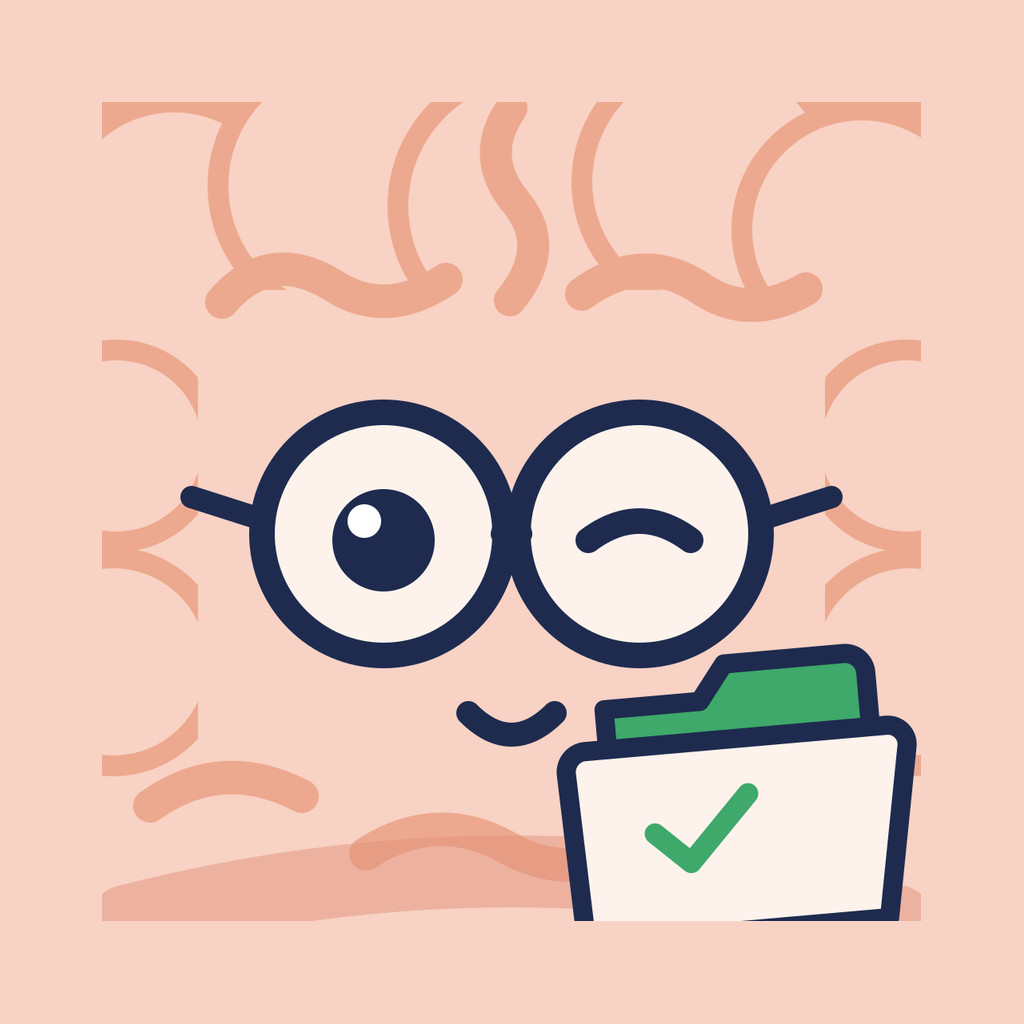
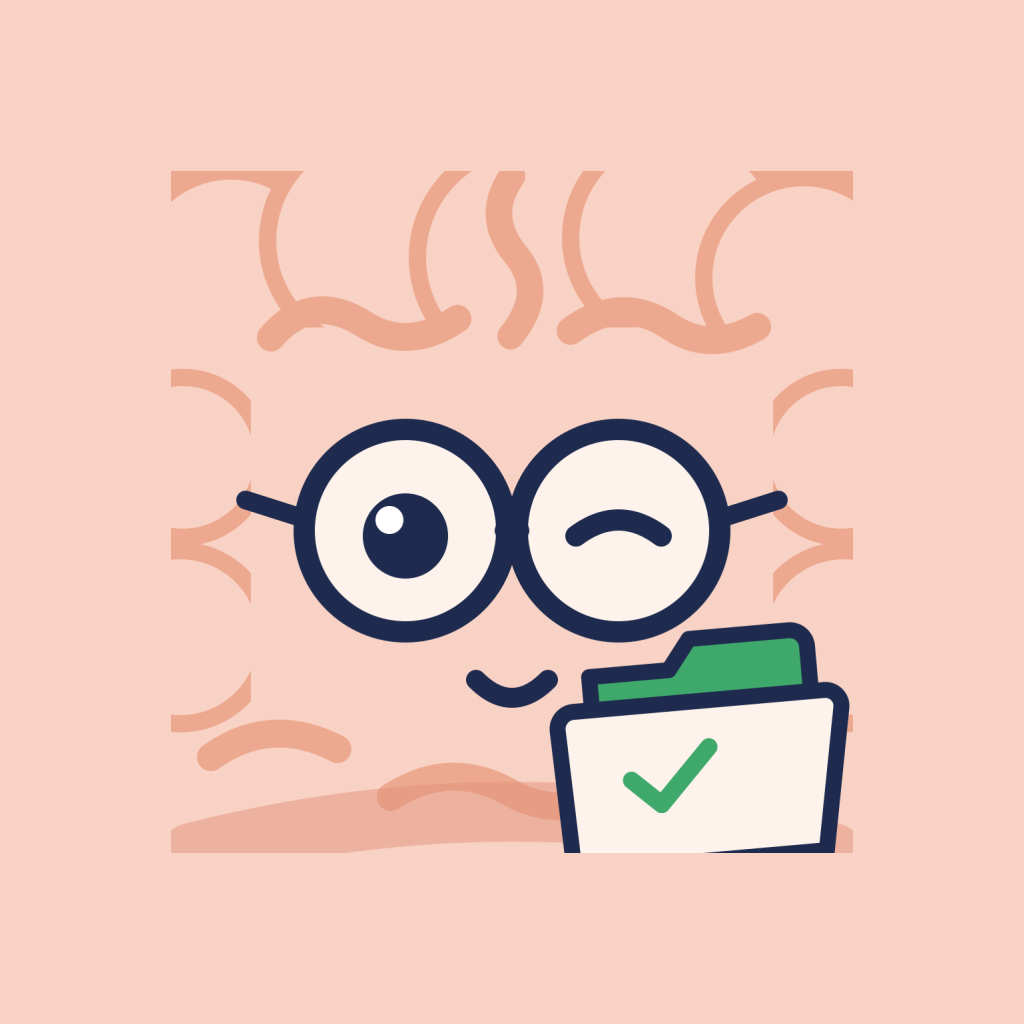
fix(assets): il foreground adattivo Android sta nella zona sicura
Il launcher mostra solo i 72dp centrali dei 108dp del foreground (il 66,7%,
su 1024 px = 171..853) e dentro quel quadrato applica la sua maschera:
cerchio sui Pixel, squircle altrove. Il file committato insettava l'arte
all'80% — contenuto misurato da 102 a 920 — quindi il 10,4% del contorno
navy usciva dal quadrato ed era tagliato su OGNI launcher, e il 48,4% del
verde della cartella cadeva fuori dalla maschera circolare: la cartella,
seconda meta' dell'idea "cervello + cartella", veniva amputata sul bordo.
docs/DEPLOY.md registrava l'asset come "full-bleed pink brain" voluto,
quindi nessuno l'avrebbe ricontrollato.

Rigenerato dalla stessa arte (assets/icon.png) scalata a 682 px con offset
171: 0 pixel fuori dalla zona sicura, 0% del verde fuori dalla maschera
circolare, navy fuori dal cerchio dal 13,5% al 7,2% (l'angolo esterno della
cartella, che li' legge come cartella che sbuca). Nessuna cucitura visibile:
il campo e' #F8D2C4, cioe' la base del cervello. L'icona iOS non e' toccata
— li' non c'e' maschera e il tutto campo e' giusto.

Lo script che lo fa vive nel repo (adaptive-inset.source.cjs, nessuna
dipendenza) e due asserzioni nuove in lib/native-config.test.ts tengono
l'invariante da entrambi i lati: niente arte fuori dal quadrato sicuro per
l'Android, arte a tutto campo per l'iOS.

Va fatto PRIMA della build: adaptive-icon.png e' input del fingerprint.

Claude-Session: https://claude.ai/code/session_01QZg6B2fg1WjCP5vyBUy89B

diff --git a/lib/native-config.test.ts b/lib/native-config.test.ts
@@ -45,7 +45,7 @@ function paeth(left: number, up: number, upLeft: number): number {
  * che sia USATO: un 96×96 bianco tutto opaco passerebbe il controllo sull'IHDR
  * ed è esattamente il quadrato pieno che Android disegnerebbe nella status bar.
  */
-function alphaStats(relative: string): { fullyTransparent: number; opaqueNonWhite: number } {
+function decodeRgba(relative: string): { width: number; height: number; px: Buffer } {
   const b = readPng(relative);
   const width = b.readUInt32BE(16);
   const height = b.readUInt32BE(20);
@@ -97,9 +97,15 @@ function alphaStats(relative: string): { fullyTransparent: number; opaqueNonWhit
     }
   }
 
+  return { width, height, px };
+}
+
+/** Pixel completamente trasparenti e pixel opachi che NON sono bianco puro. */
+function alphaStats(relative: string): { fullyTransparent: number; opaqueNonWhite: number } {
+  const { px } = decodeRgba(relative);
   let fullyTransparent = 0;
   let opaqueNonWhite = 0;
-  for (let i = 0; i < px.length; i += bpp) {
+  for (let i = 0; i < px.length; i += 4) {
     const alpha = px[i + 3];
     if (alpha === 0) {
       fullyTransparent += 1;
@@ -108,6 +114,39 @@ function alphaStats(relative: string): { fullyTransparent: number; opaqueNonWhit
     }
   }
   return { fullyTransparent, opaqueNonWhite };
+}
+
+/**
+ * Il rettangolo che racchiude tutti i pixel diversi dallo sfondo dato
+ * (`#RRGGBB` opaco, oppure alpha 0). Serve a misurare quanta arte esce dalla
+ * zona sicura dell'adaptive icon Android.
+ */
+function contentBounds(
+  relative: string,
+  background: [number, number, number],
+): { minX: number; minY: number; maxX: number; maxY: number } {
+  const { width, height, px } = decodeRgba(relative);
+  let minX = width;
+  let minY = height;
+  let maxX = -1;
+  let maxY = -1;
+  for (let y = 0; y < height; y += 1) {
+    for (let x = 0; x < width; x += 1) {
+      const i = (y * width + x) * 4;
+      const isBackground =
+        px[i + 3] === 0 ||
+        (px[i + 3] === 255 &&
+          px[i] === background[0] &&
+          px[i + 1] === background[1] &&
+          px[i + 2] === background[2]);
+      if (isBackground) continue;
+      if (x < minX) minX = x;
+      if (x > maxX) maxX = x;
+      if (y < minY) minY = y;
+      if (y > maxY) maxY = y;
+    }
+  }
+  return { minX, minY, maxX, maxY };
 }
 
 describe("icona di notifica Android", () => {
@@ -222,6 +261,46 @@ describe("app.json — build 3", () => {
     expect(sameBytes("assets/adaptive-icon.png", "assets/brand/icon-v2/adaptive-icon.png")).toBe(true);
     expect(appJson.expo.android.adaptiveIcon.backgroundColor).toBe("#F8D2C4");
     expect(pngHeader("assets/icon.png")).toEqual({ width: 1024, height: 1024, colorType: 6 });
+  });
+
+  it("il foreground adattivo sta tutto nella zona sicura: il launcher non taglia il disegno", () => {
+    // Adaptive icon: il foreground e' 108dp ma il sistema ne mostra solo i 72dp
+    // centrali (66,7%), e dentro quel quadrato ogni OEM applica la sua maschera
+    // — cerchio su Pixel, squircle altrove. Tutto cio' che esce da 171..853 su
+    // 1024 e' tagliato SEMPRE, su ogni launcher.
+    //
+    // Il file precedente insettava l'arte all'80% (bbox 102..920): il 10,4% del
+    // contorno navy usciva dal quadrato e il 48% del verde della cartella
+    // finiva fuori dalla maschera circolare, cioe' la cartella — la seconda
+    // meta' dell'idea "cervello + cartella" — veniva amputata sul bordo.
+    //
+    // Lo sfondo e' lo stesso colore della base del cervello, quindi rimpicciolire
+    // l'arte non lascia nessuna cucitura visibile. E' un input del fingerprint:
+    // sbagliarlo dopo vc13 costa la build 4.
+    const { width, height, colorType } = pngHeader("assets/adaptive-icon.png");
+    expect({ width, height, colorType }).toEqual({ width: 1024, height: 1024, colorType: 6 });
+    const safeLow = Math.round((width * (1 - 2 / 3)) / 2); // 171
+    const safeHigh = width - safeLow; // 853
+    const bounds = contentBounds("assets/adaptive-icon.png", [0xf8, 0xd2, 0xc4]);
+    expect(bounds.minX).toBeGreaterThanOrEqual(safeLow);
+    expect(bounds.minY).toBeGreaterThanOrEqual(safeLow);
+    expect(bounds.maxX).toBeLessThanOrEqual(safeHigh);
+    expect(bounds.maxY).toBeLessThanOrEqual(safeHigh);
+    // E il disegno deve comunque RIEMPIRE la zona sicura: un'arte
+    // rimpicciolita per sbaglio passerebbe il controllo di sopra.
+    expect(bounds.maxX - bounds.minX).toBeGreaterThan((safeHigh - safeLow) * 0.9);
+    expect(bounds.maxY - bounds.minY).toBeGreaterThan((safeHigh - safeLow) * 0.9);
+  });
+
+  it("l'icona iOS resta a tutto campo: li' non c'e' nessuna maschera", () => {
+    // Stessa arte, due inquadrature. Se un domani qualcuno ricopiasse
+    // icon.png su adaptive-icon.png (o viceversa) uno dei due sarebbe sbagliato.
+    const bounds = contentBounds("assets/icon.png", [0xf8, 0xd2, 0xc4]);
+    expect(bounds.minX).toBe(0);
+    expect(bounds.minY).toBe(0);
+    expect(bounds.maxX).toBe(1023);
+    expect(bounds.maxY).toBe(1023);
+    expect(sameBytes("assets/icon.png", "assets/adaptive-icon.png")).toBe(false);
   });
 
   it("gli asset per gli store sono la v2, e quello Apple è senza alpha", () => {

diff --git a/docs/DEPLOY.md b/docs/DEPLOY.md
@@ -353,14 +353,18 @@ only ship the `abort-controller` polyfill, which lacks it.
 ## Brand assets (icon, adaptive icon, splash, store icons)
 
 Launcher icons are the approved v2 (`assets/brand/icon-v2/`, vector source
-`brain-icon.source.mjs`, sharp — never in `package.json`). The splash still
+`brain-icon.source.mjs`, sharp — never in `package.json`). iOS gets the art
+full-bleed (`assets/icon.png`, no mask); **Android does not** — the launcher
+masks the foreground, so `assets/adaptive-icon.png` carries the same art inset
+into the safe zone. Same drawing, two framings: do not re-copy `icon.png` over
+`adaptive-icon.png`. The splash still
 derives from the v1 navy tile in `assets/brand/icon.png`; the icon-v2 README
 does not cover it and no spec asks for it.
 
 | File | Size / mode | Used by |
 | --- | --- | --- |
 | `assets/icon.png` | 1024×1024 RGBA (alpha all 255) = `assets/brand/icon-v2/icon.png`, byte for byte | `expo.icon`. Prebuild flattens it to RGB on white (`withIosIcons` → `removeTransparency`), so an opaque RGBA source is fine for Apple |
-| `assets/adaptive-icon.png` | 1024×1024 RGBA opaque, full-bleed pink brain = `assets/brand/icon-v2/adaptive-icon.png` | `expo.android.adaptiveIcon.foregroundImage` on `#F8D2C4` (v1 was navy on `#142450`) |
+| `assets/adaptive-icon.png` | 1024×1024 RGBA opaque = `assets/brand/icon-v2/adaptive-icon.png`. **Not** full-bleed: the art sits in the adaptive-icon safe zone (the central 66.7 % = px 171…853) on a flat `#F8D2C4` field, which is also the brain's own base colour, so there is no visible seam. Regenerated 2026-09-04 — the previous 0.8 inset put 10.4 % of the navy outline outside that square (clipped by every launcher) and 48 % of the green folder outside the circular mask | `expo.android.adaptiveIcon.foregroundImage` on `#F8D2C4` (v1 was navy on `#142450`). `lib/native-config.test.ts` fails if any non-`#F8D2C4` pixel leaves the safe square |
 | `assets/notification-icon.png` | 96×96 RGBA, WHITE on transparent (Android uses only the alpha), source `assets/brand/icon-v2/notification-icon.source.mjs` | `expo-notifications` plugin `icon`, tinted with `color` `#3B6BF5` — the DARK accent: the tint lands in a single `res/values/colors.xml` (no `values-night`), so it must read on a dark shade too |
 | `assets/splash-icon.png` | 1024×1024 RGBA | `expo-splash-screen` plugin, `imageWidth: 200` on `#F5F3EF`; same art on `#0E1015` under `dark` (the dark palette's `bgScreen`) so a dark-themed phone gets no white flash before React mounts |
 | `assets/favicon.png` | 48×48 RGBA | `expo.web.favicon` |

diff --git a/assets/brand/icon-v2/README.md b/assets/brand/icon-v2/README.md
@@ -17,6 +17,36 @@ Al momento della PROSSIMA BUILD NATIVA (build 3 / vc13):
 copie per gli store sono in `docs/store-assets/`. Il passo 4 resta manuale
 in Play Console al momento dell'upload di vc13.
 
+## `adaptive-icon.png` non è `icon.png` (2026-09-04)
+
+Su iOS l'icona è a tutto campo e nessuno la maschera: `icon.png` va bene così.
+Su Android no. Il foreground di un adaptive icon è 108 dp ma il sistema ne mostra
+solo i **72 dp centrali** (il 66,7 %, su 1024 px = da 171 a 853), e dentro quel
+quadrato ogni produttore applica la sua maschera: cerchio sui Pixel, squircle
+altrove. Tutto ciò che esce dal quadrato è tagliato su **ogni** launcher.
+
+La prima versione insettava l'arte all'80 % (contenuto da 102 a 920): il 10,4 %
+del contorno navy usciva dal quadrato e il 48 % del verde della cartella cadeva
+fuori dalla maschera circolare — la cartella, cioè la seconda metà dell'idea
+"cervello + cartella", veniva amputata sul bordo e il suo bordo verde spariva.
+
+Ora l'arte sta esattamente in 171…852, su un campo pieno `#F8D2C4`. Non si vede
+nessuna cucitura perché quel colore è la base del cervello stesso: la differenza
+è solo che gyri, occhiali e cartella smettono un po' prima del bordo.
+
+Per rigenerarla dopo qualunque modifica a `icon.png`:
+
+```bash
+node assets/brand/icon-v2/adaptive-inset.source.cjs
+```
+
+(nessuna dipendenza: decoder/encoder PNG a mano, gira col solo Node). Il
+risultato è verificato da `lib/native-config.test.ts` — "il foreground adattivo
+sta tutto nella zona sicura" e "l'icona iOS resta a tutto campo". **Non**
+ricopiare `icon.png` su `adaptive-icon.png`: sono la stessa arte con due
+inquadrature diverse, e sono input del fingerprint (sbagliarle dopo vc13 costa
+una build in più).
+
 `appstore-icon-1024.png` è `icon.png` **appiattita a RGB** (App Store Connect
 rifiuta il canale alpha e quel file si carica a mano, non passa da prebuild).
 Per rigenerarla:
